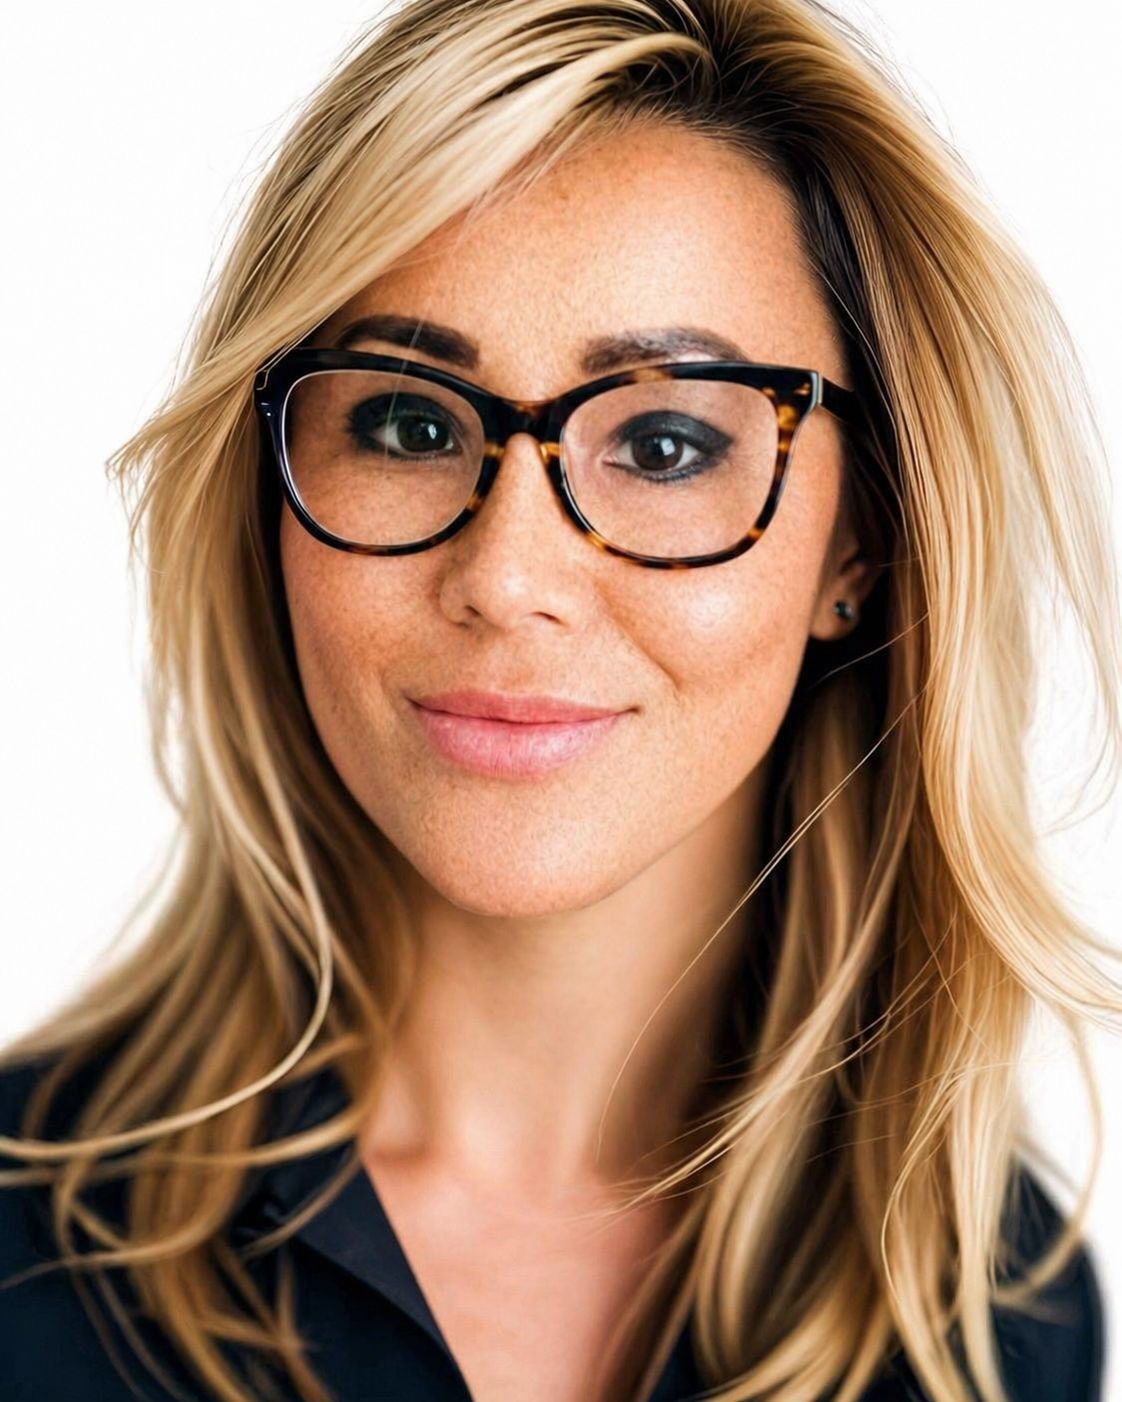
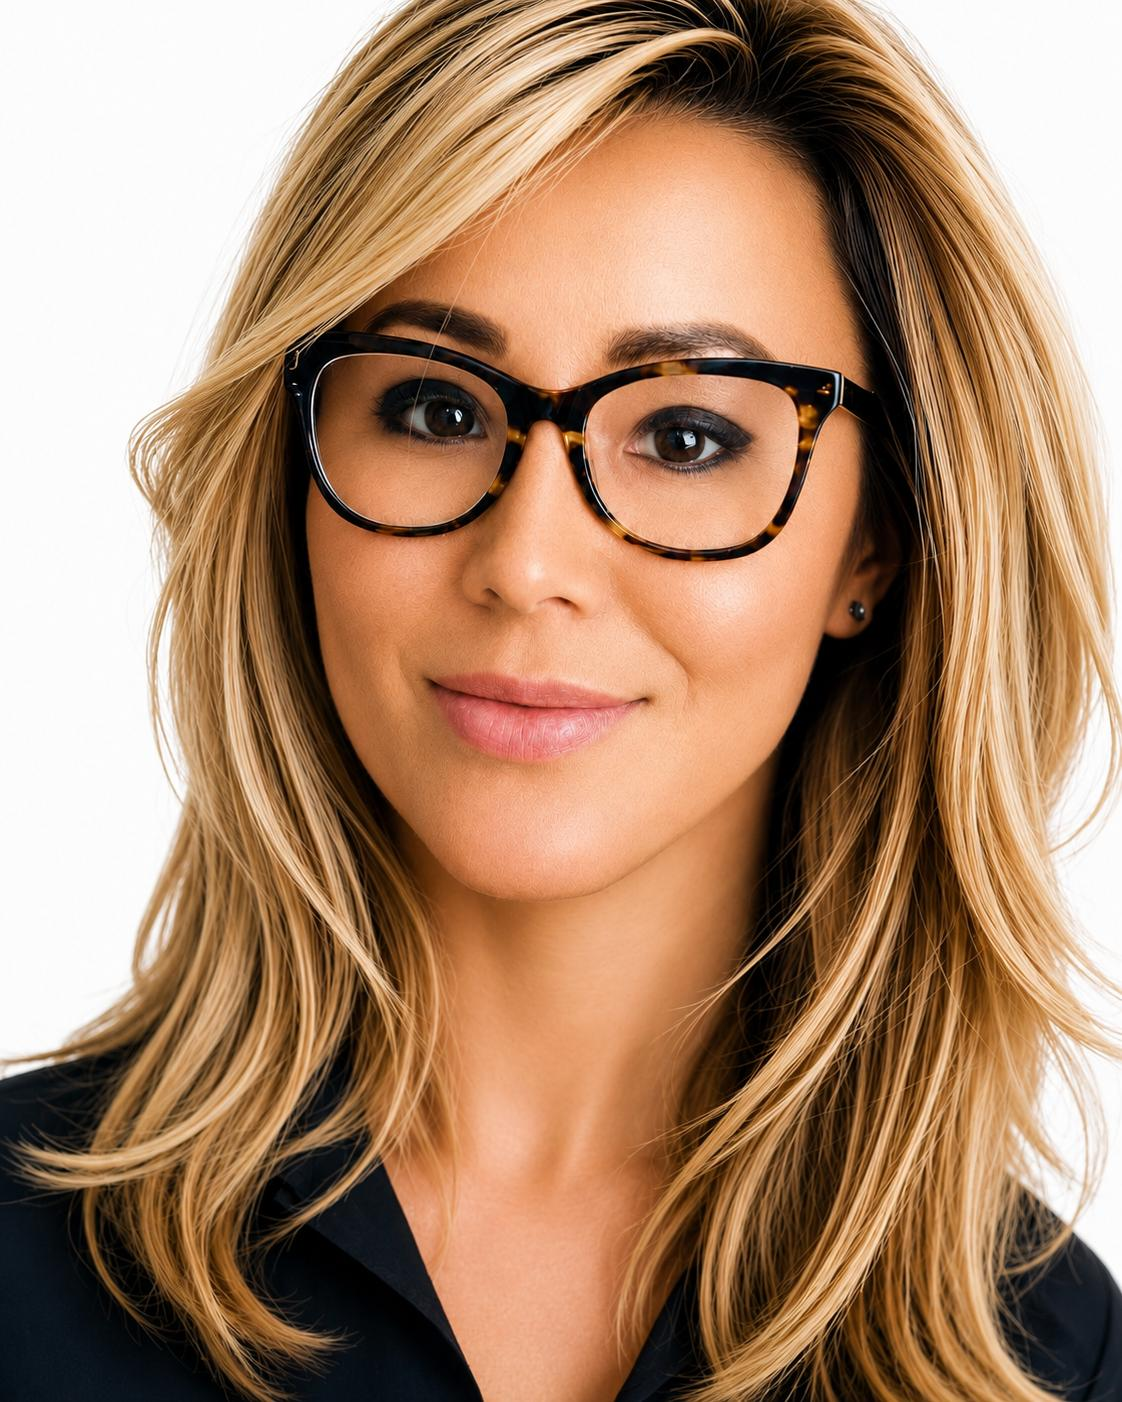
Update AboutPage and team images

diff --git a/src/app/pages/AboutPage.tsx b/src/app/pages/AboutPage.tsx
@@ -132,7 +132,18 @@ Areas of Expertise
     name: "Nathan Robb", 
     role: "Advisory Board Member", 
     image: "/Nathan.jpeg",
-    bio: `Nathan Robb is a senior government relations professional with extensive experience in federal and state policy advocacy in the United States, particularly in support of higher education, scientific research, and student financial aid. In his current leadership role, he advances strategic priorities by engaging policymakers and shaping public policy initiatives that strengthen institutional and research objectives. Earlier in his career, he served as a political analyst with the Japanese Consulate in New York, providing insight into U.S.–Japan relations. Nathan holds a bachelor's degree and a master's degree from the University of Chicago.`
+    bio: `Nathan W. Robb is a senior government relations professional with extensive experience in federal and state policy advocacy in the United States, with a focus on higher education, scientific research, and student financial aid. In his current leadership role, he advances strategic priorities by engaging policymakers and shaping public policy initiatives that strengthen institutional and research objectives.
+
+Earlier in his career, Nathan served as a political analyst with the Japanese Consulate in New York, where he provided insight into U.S.–Japan relations and supported diplomatic and policy-related initiatives.
+
+Nathan holds both a bachelor’s degree and a master’s degree from the University of Chicago.
+
+Areas of Expertise
+•  Government relations and policy advocacy
+•  Federal and state legislative engagement
+•  Higher education and research policy
+•  Public policy strategy and analysis
+•  Stakeholder and institutional engagement`
   },
   { 
     name: "Patrick M. Reid", 